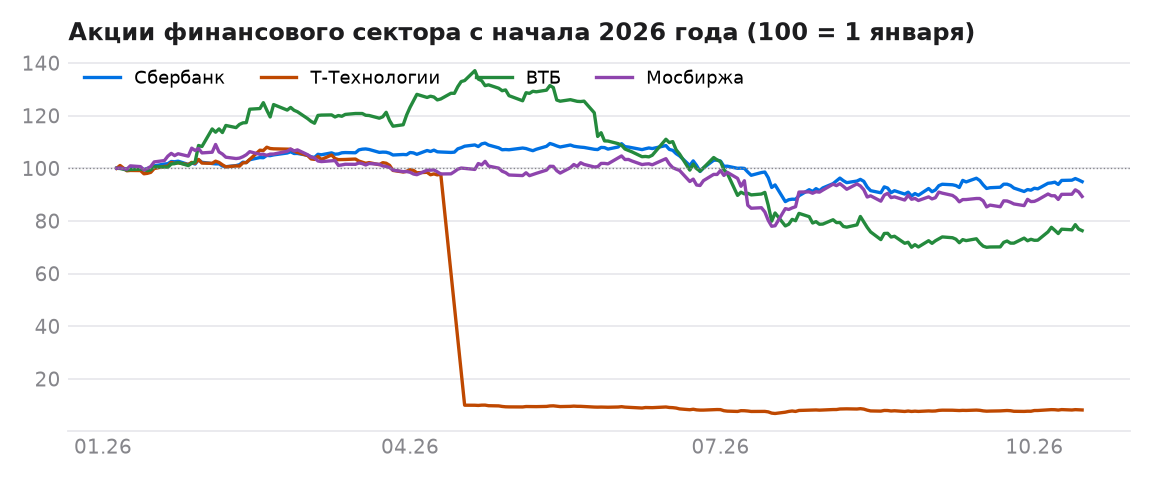
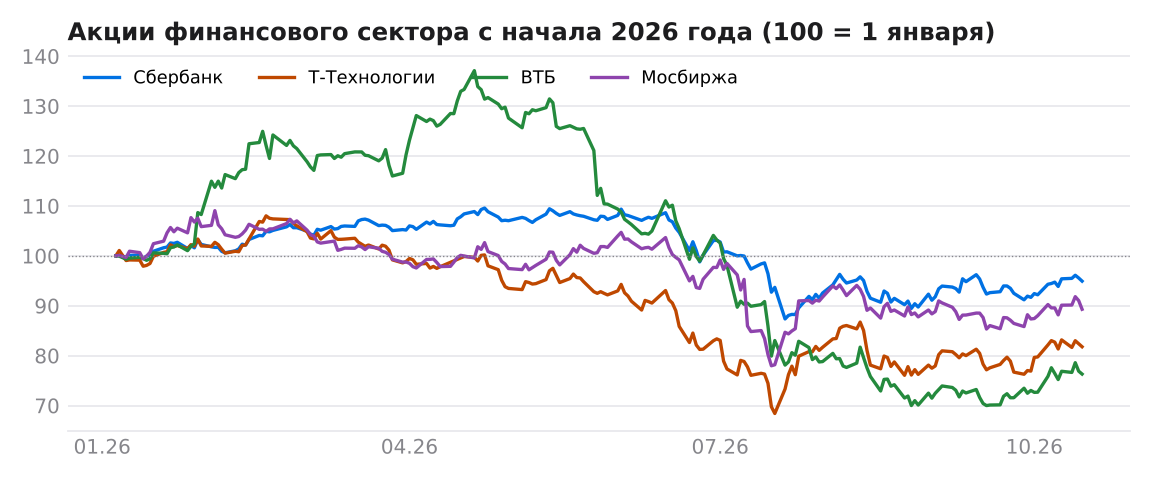
Adjust share prices for splits and reverse splits
T-Technologies 10:1 split (April 2026) showed up as a -92% YTD drop and
VTBR's 2024 consolidation broke long-range comparisons. Splits are detected
from >3x daily jumps (impossible under exchange price limits), snapped to a
round factor and applied at calculation time; raw data stays untouched.

diff --git a/pulse/build.py b/pulse/build.py
@@ -16,6 +16,7 @@ import matplotlib
 matplotlib.use("Agg")
 import matplotlib.dates as mdates
 import matplotlib.pyplot as plt
+import numpy as np
 import pandas as pd
 
 from .iss import SERIES, Series, fetch
@@ -68,6 +69,35 @@ def update(s: Series, get=None) -> tuple[pd.DataFrame, str | None]:
     DATA.mkdir(exist_ok=True)
     df.to_csv(DATA / f"{s.key}.csv", index=False, date_format="%Y-%m-%d")
     return df, None
+
+
+# ---------- сплиты ----------
+NICE_FACTORS = [2, 3, 4, 5, 10, 20, 25, 50, 100, 200, 500, 1000, 2000, 5000, 10000]
+
+
+def adjust_splits(df: pd.DataFrame) -> tuple[pd.DataFrame, list[dict]]:
+    """Корректирует цены акций на сплиты и консолидации.
+
+    Изменение цены больше чем в 3 раза за день на российском рынке невозможно из-за ценовых
+    ограничений биржи — такой скачок означает сплит. Коэффициент округляем до ближайшего
+    «круглого» (10:1, 1:5000 …) и пересчитываем все цены до даты события.
+    """
+    df = df.sort_values("date").reset_index(drop=True)
+    close = df.close.to_numpy(dtype=float).copy()
+    events = []
+    for i in range(1, len(close)):
+        ratio = close[i] / close[i - 1]
+        if 1 / 3 < ratio < 3:
+            continue
+        up = ratio >= 3
+        raw = ratio if up else 1 / ratio
+        factor = min(NICE_FACTORS, key=lambda f: abs(np.log(f / raw)))
+        mult = factor if up else 1 / factor
+        close[:i] *= mult
+        events.append(dict(date=df.date[i].strftime("%d.%m.%Y"),
+                           kind="консолидация" if up else "сплит",
+                           ratio=f"{factor}:1" if not up else f"1:{factor}"))
+    return df.assign(close=close), events
 
 
 # ---------- KPI ----------
@@ -157,6 +187,12 @@ def main(offline: bool = False) -> int:
                 errors.append(err)
                 print("WARN", err, file=sys.stderr)
     frames = {k: v for k, v in frames.items() if len(v) > 1}
+    corporate = {}
+    for s in SERIES:
+        if s.group == "Банки" and s.key in frames:
+            frames[s.key], ev = adjust_splits(frames[s.key])
+            if ev:
+                corporate[s.title] = ev
     if not frames:
         print("Нет ни одного ряда данных", file=sys.stderr)
         return 1
@@ -181,6 +217,9 @@ def main(offline: bool = False) -> int:
     body = "\n".join([
         f"*Обновлено автоматически {updated}, последние торги {last_trade}.*", "",
         render_table(rows), "",
+        *([("Цены акций скорректированы на корпоративные события: "
+            + "; ".join(f"{t} — {e['kind']} {e['ratio']} ({e['date']})" for t, evs in corporate.items() for e in evs) + "."), ""]
+          if corporate else []),
         '<img src="charts/imoex.png" width="100%">', "",
         '<img src="charts/rgbi.png" width="100%">', "",
         '<img src="charts/banks.png" width="100%">', "",

diff --git a/tests/test_pulse.py b/tests/test_pulse.py
@@ -79,3 +79,26 @@ def test_first_run_produces_numeric_history(tmp_path, monkeypatch):
     assert (tmp_path / "charts" / "t.png").exists()
     again = build.load_local(SERIES[0])
     assert again.close.dtype.kind == "f" and len(again) == 150
+
+
+def test_split_adjustment():
+    dates = pd.bdate_range("2026-04-01", periods=6)
+    df = pd.DataFrame({"date": dates, "close": [3200.0, 3180.0, 3196.0, 326.3, 330.0, 333.0]})
+    adj, ev = build.adjust_splits(df)
+    assert ev == [{"date": dates[3].strftime("%d.%m.%Y"), "kind": "сплит", "ratio": "10:1"}]
+    assert adj.close.iloc[2] == pytest.approx(319.6)
+    assert (adj.close / adj.close.shift()).dropna().between(0.8, 1.2).all()
+
+
+def test_reverse_split_snaps_to_round_factor():
+    dates = pd.bdate_range("2024-07-10", periods=4)
+    df = pd.DataFrame({"date": dates, "close": [0.019, 0.02, 92.95, 93.5]})
+    adj, ev = build.adjust_splits(df)
+    assert ev[0]["ratio"] == "1:5000" and ev[0]["kind"] == "консолидация"
+    assert adj.close.iloc[1] == pytest.approx(100.0)
+
+
+def test_no_false_splits_on_normal_moves():
+    df = pd.DataFrame({"date": pd.bdate_range("2026-01-05", periods=5), "close": [100.0, 115.0, 92.0, 110.0, 109.0]})
+    adj, ev = build.adjust_splits(df)
+    assert ev == [] and list(adj.close) == list(df.close)
